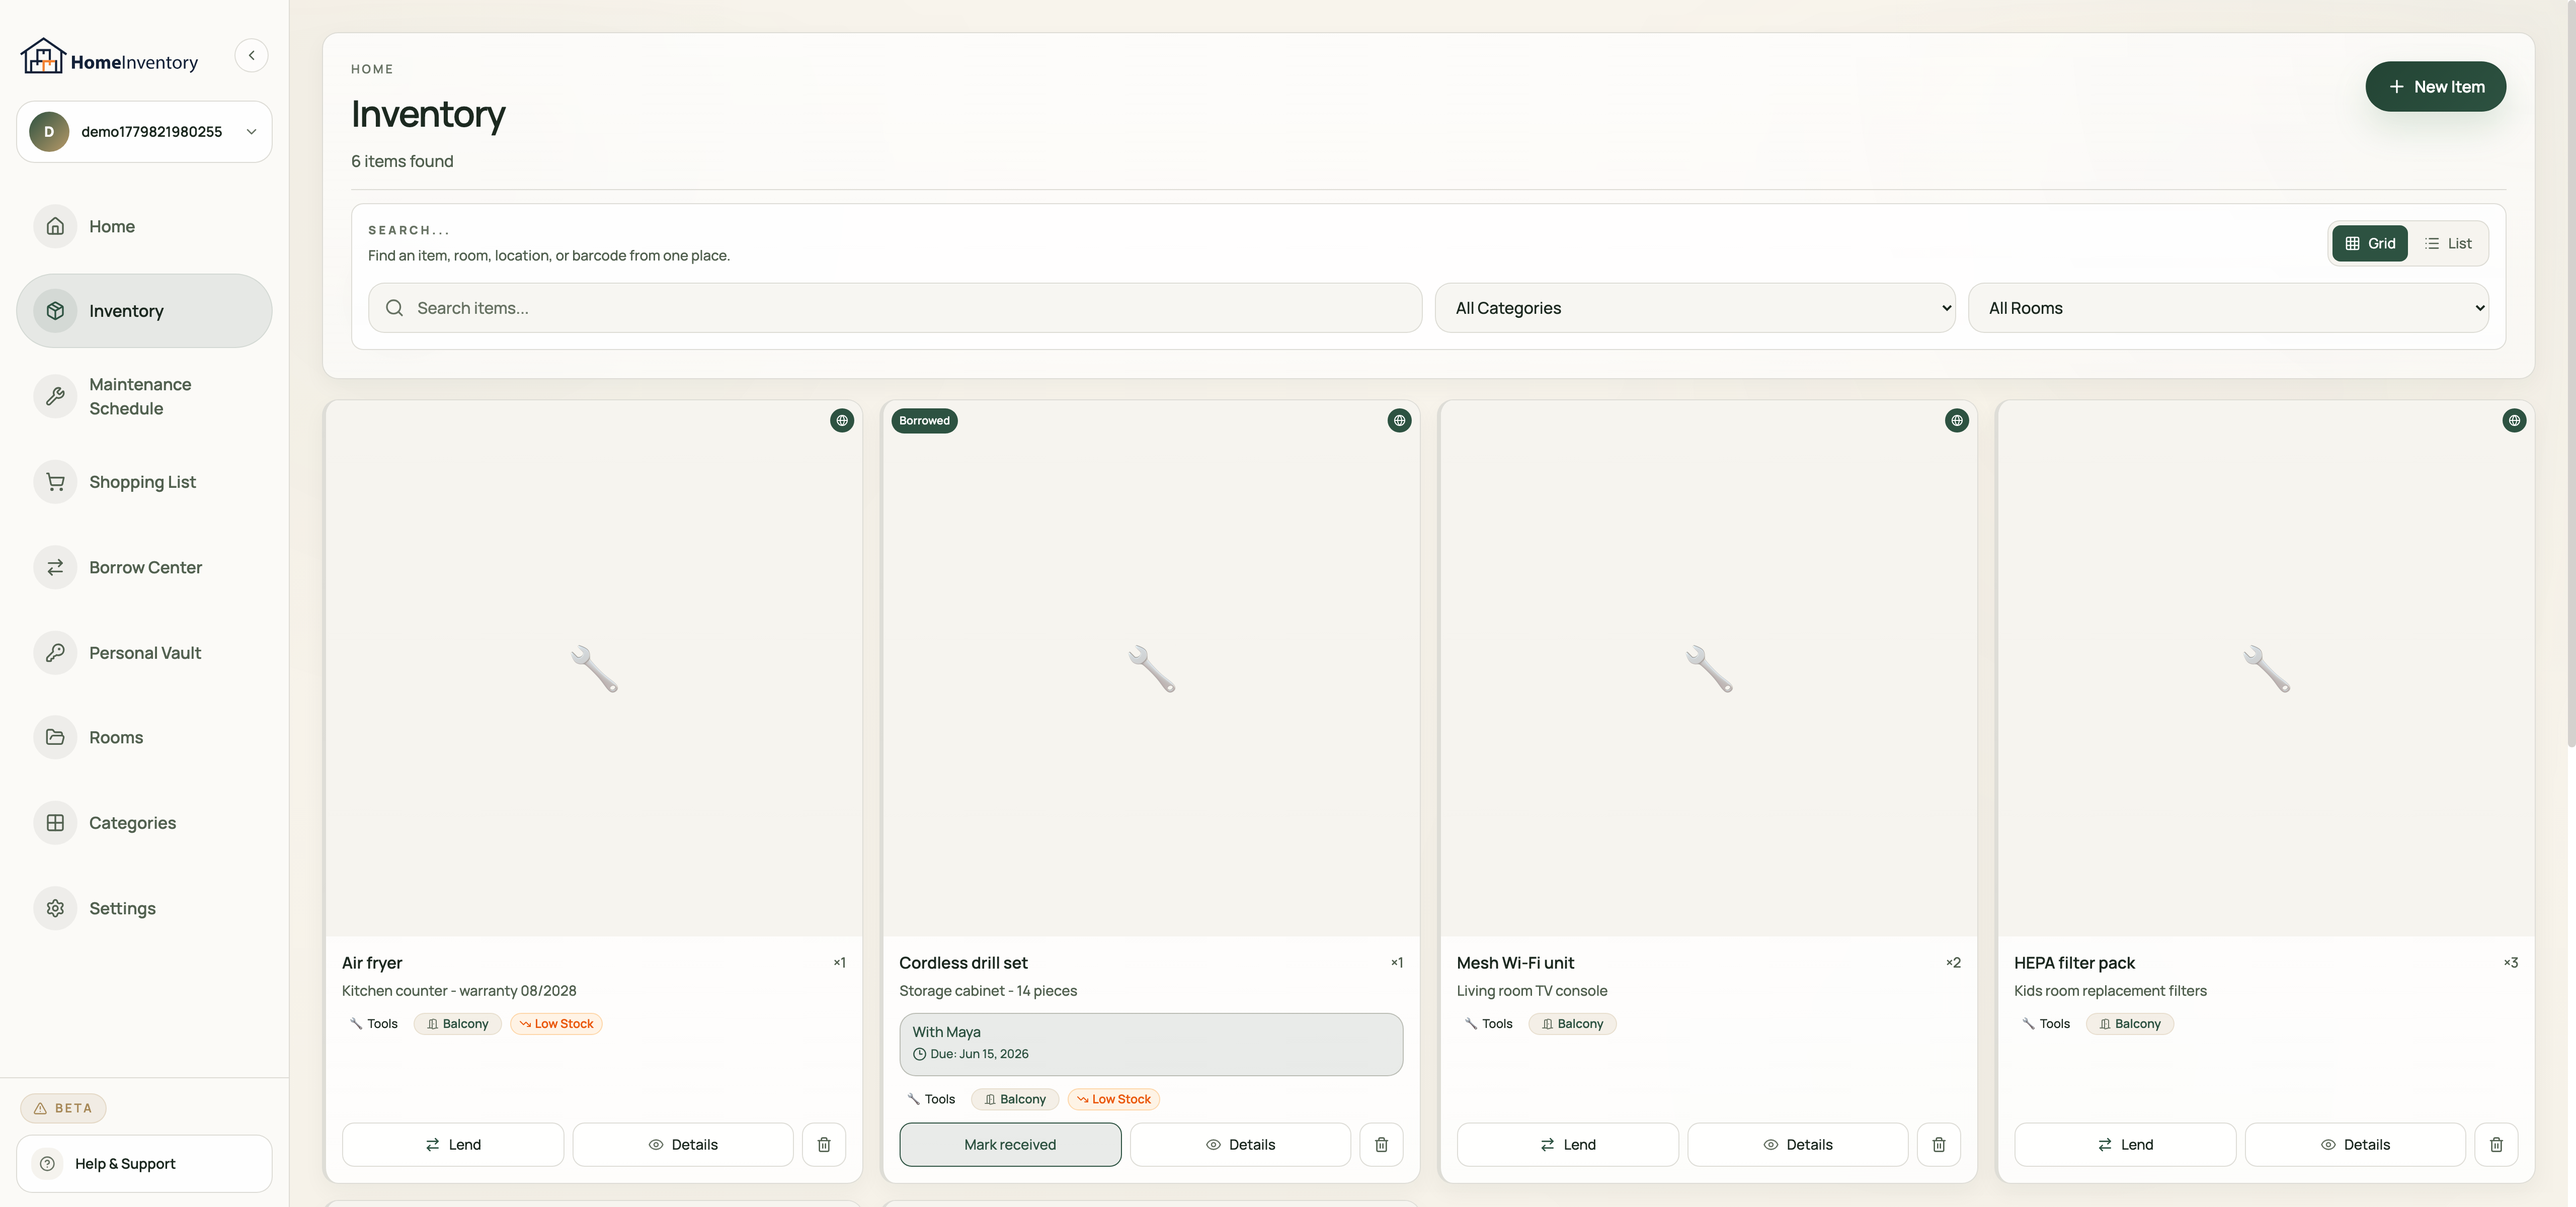
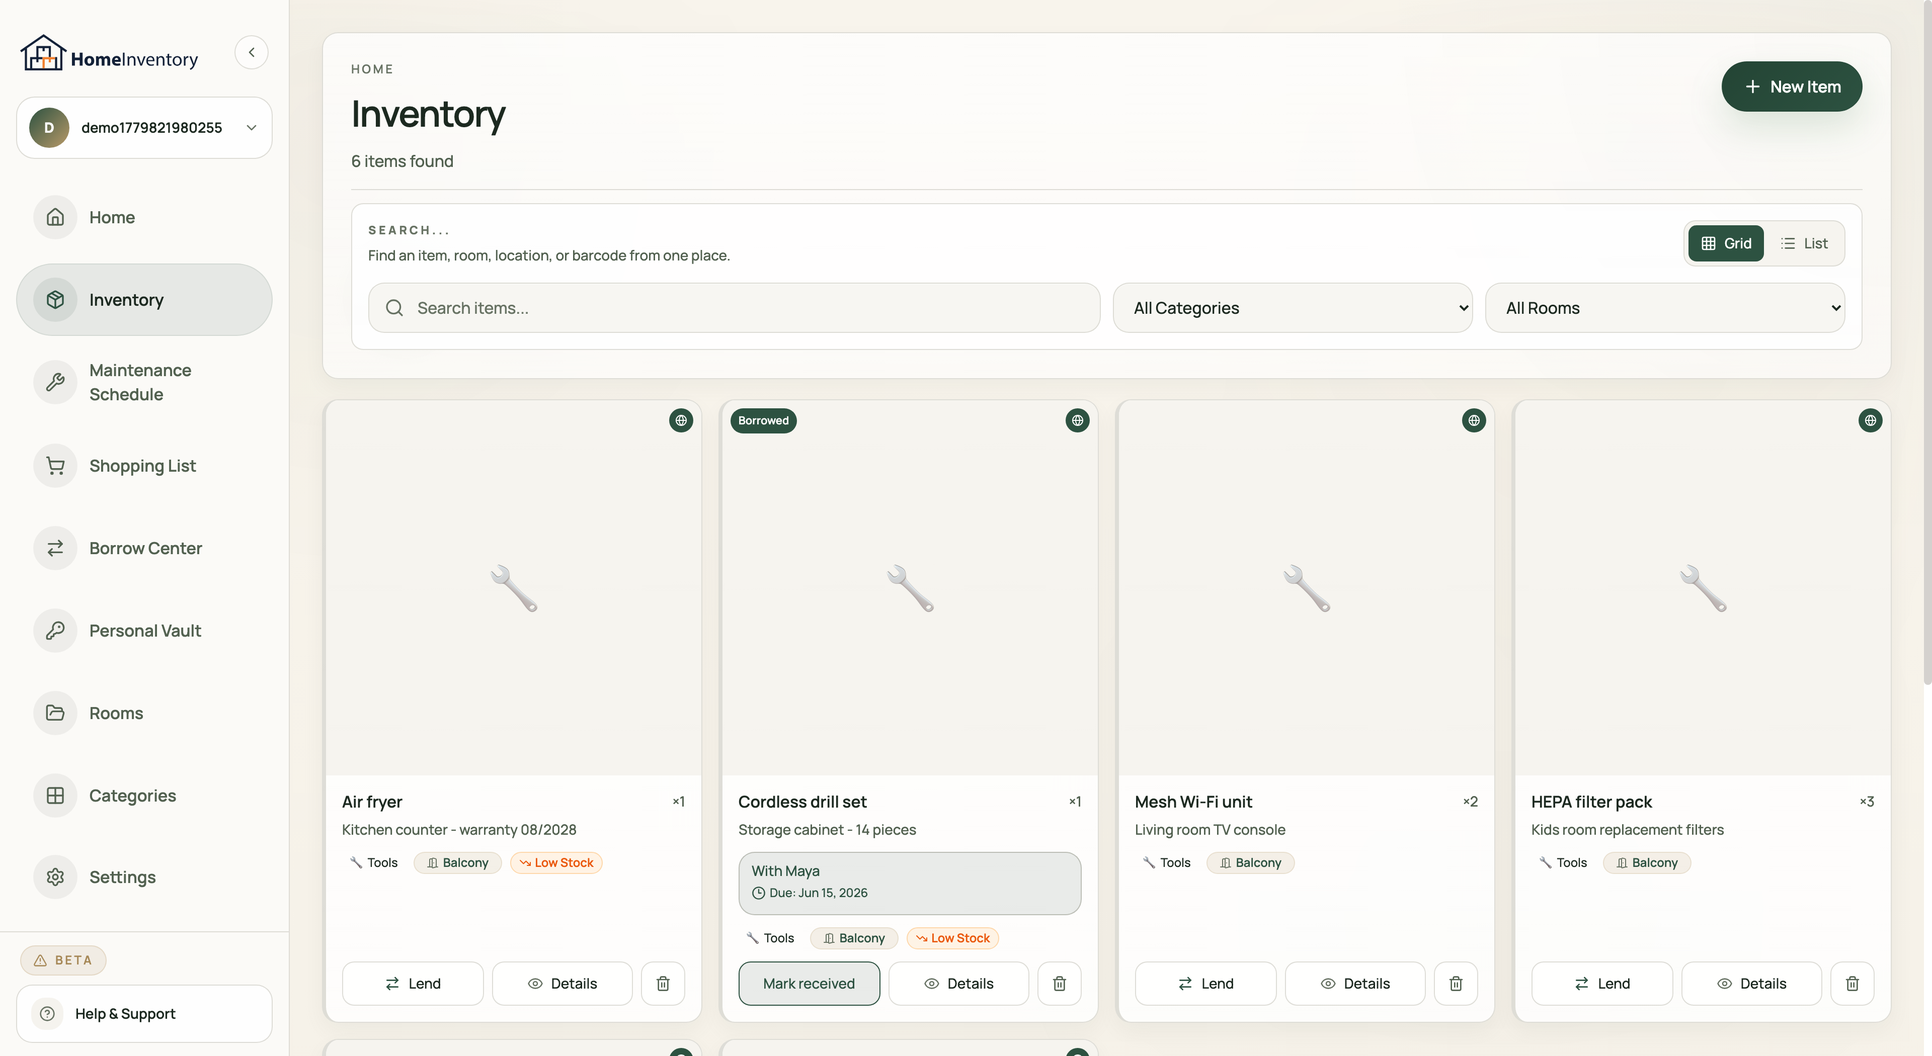
docs: normalize v2.1.1 screenshots

diff --git a/README.ar.md b/README.ar.md
@@ -50,7 +50,7 @@
 ## المعاينة
 
 <p align="center">
-  <img src="docs/assets/screenshot-landing.png" alt="معاينة صفحة HomeInventory الرئيسية" width="96%" />
+  <img src="docs/assets/screenshot-landing.png" alt="معاينة صفحة HomeInventory الرئيسية" width="82%" />
 </p>
 
 <details>
@@ -59,16 +59,16 @@
 <br/>
 
 <p align="center">
-  <img src="docs/assets/screenshot-inventory.png" alt="شاشة الجرد" width="96%" />
+  <img src="docs/assets/screenshot-inventory.png" alt="شاشة الجرد" width="82%" />
 </p>
 <p align="center">
-  <img src="docs/assets/screenshot-borrow.png" alt="شاشة Borrow Center" width="96%" />
+  <img src="docs/assets/screenshot-borrow.png" alt="شاشة Borrow Center" width="82%" />
 </p>
 <p align="center">
-  <img src="docs/assets/screenshot-vault.png" alt="شاشة Personal Vault" width="96%" />
+  <img src="docs/assets/screenshot-vault.png" alt="شاشة Personal Vault" width="82%" />
 </p>
 <p align="center">
-  <img src="docs/assets/screenshot-categories.png" alt="شاشة الفئات" width="96%" />
+  <img src="docs/assets/screenshot-categories.png" alt="شاشة الفئات" width="82%" />
 </p>
 
 </details>

diff --git a/README.es.md b/README.es.md
@@ -48,7 +48,7 @@
 ## Vista previa
 
 <p align="center">
-  <img src="docs/assets/screenshot-landing.png" alt="Vista previa de la landing de HomeInventory" width="96%" />
+  <img src="docs/assets/screenshot-landing.png" alt="Vista previa de la landing de HomeInventory" width="82%" />
 </p>
 
 <details>
@@ -57,16 +57,16 @@
 <br/>
 
 <p align="center">
-  <img src="docs/assets/screenshot-inventory.png" alt="Pantalla de inventario" width="96%" />
+  <img src="docs/assets/screenshot-inventory.png" alt="Pantalla de inventario" width="82%" />
 </p>
 <p align="center">
-  <img src="docs/assets/screenshot-borrow.png" alt="Pantalla de Borrow Center" width="96%" />
+  <img src="docs/assets/screenshot-borrow.png" alt="Pantalla de Borrow Center" width="82%" />
 </p>
 <p align="center">
-  <img src="docs/assets/screenshot-vault.png" alt="Pantalla de Personal Vault" width="96%" />
+  <img src="docs/assets/screenshot-vault.png" alt="Pantalla de Personal Vault" width="82%" />
 </p>
 <p align="center">
-  <img src="docs/assets/screenshot-categories.png" alt="Pantalla de categorías" width="96%" />
+  <img src="docs/assets/screenshot-categories.png" alt="Pantalla de categorías" width="82%" />
 </p>
 
 </details>

diff --git a/README.tr.md b/README.tr.md
@@ -48,7 +48,7 @@
 ## Önizleme
 
 <p align="center">
-  <img src="docs/assets/screenshot-landing.png" alt="HomeInventory açılış ekranı önizlemesi" width="96%" />
+  <img src="docs/assets/screenshot-landing.png" alt="HomeInventory açılış ekranı önizlemesi" width="82%" />
 </p>
 
 <details>
@@ -57,16 +57,16 @@
 <br/>
 
 <p align="center">
-  <img src="docs/assets/screenshot-inventory.png" alt="Envanter ekranı" width="96%" />
+  <img src="docs/assets/screenshot-inventory.png" alt="Envanter ekranı" width="82%" />
 </p>
 <p align="center">
-  <img src="docs/assets/screenshot-borrow.png" alt="Borrow Center ekranı" width="96%" />
+  <img src="docs/assets/screenshot-borrow.png" alt="Borrow Center ekranı" width="82%" />
 </p>
 <p align="center">
-  <img src="docs/assets/screenshot-vault.png" alt="Personal Vault ekranı" width="96%" />
+  <img src="docs/assets/screenshot-vault.png" alt="Personal Vault ekranı" width="82%" />
 </p>
 <p align="center">
-  <img src="docs/assets/screenshot-categories.png" alt="Kategoriler ekranı" width="96%" />
+  <img src="docs/assets/screenshot-categories.png" alt="Kategoriler ekranı" width="82%" />
 </p>
 
 </details>

diff --git a/README.de.md b/README.de.md
@@ -48,7 +48,7 @@
 ## Vorschau
 
 <p align="center">
-  <img src="docs/assets/screenshot-landing.png" alt="HomeInventory Landingpage-Vorschau" width="96%" />
+  <img src="docs/assets/screenshot-landing.png" alt="HomeInventory Landingpage-Vorschau" width="82%" />
 </p>
 
 <details>
@@ -57,16 +57,16 @@
 <br/>
 
 <p align="center">
-  <img src="docs/assets/screenshot-inventory.png" alt="Inventaransicht" width="96%" />
+  <img src="docs/assets/screenshot-inventory.png" alt="Inventaransicht" width="82%" />
 </p>
 <p align="center">
-  <img src="docs/assets/screenshot-borrow.png" alt="Borrow Center Ansicht" width="96%" />
+  <img src="docs/assets/screenshot-borrow.png" alt="Borrow Center Ansicht" width="82%" />
 </p>
 <p align="center">
-  <img src="docs/assets/screenshot-vault.png" alt="Personal Vault Ansicht" width="96%" />
+  <img src="docs/assets/screenshot-vault.png" alt="Personal Vault Ansicht" width="82%" />
 </p>
 <p align="center">
-  <img src="docs/assets/screenshot-categories.png" alt="Kategorienansicht" width="96%" />
+  <img src="docs/assets/screenshot-categories.png" alt="Kategorienansicht" width="82%" />
 </p>
 
 </details>

diff --git a/README.md b/README.md
@@ -48,7 +48,7 @@
 ## Preview
 
 <p align="center">
-  <img src="docs/assets/screenshot-landing.png" alt="HomeInventory landing page preview" width="96%" />
+  <img src="docs/assets/screenshot-landing.png" alt="HomeInventory landing page preview" width="82%" />
 </p>
 
 <details>
@@ -57,16 +57,16 @@
 <br/>
 
 <p align="center">
-  <img src="docs/assets/screenshot-inventory.png" alt="Inventory screen" width="96%" />
+  <img src="docs/assets/screenshot-inventory.png" alt="Inventory screen" width="82%" />
 </p>
 <p align="center">
-  <img src="docs/assets/screenshot-borrow.png" alt="Borrow Center screen" width="96%" />
+  <img src="docs/assets/screenshot-borrow.png" alt="Borrow Center screen" width="82%" />
 </p>
 <p align="center">
-  <img src="docs/assets/screenshot-vault.png" alt="Personal Vault screen" width="96%" />
+  <img src="docs/assets/screenshot-vault.png" alt="Personal Vault screen" width="82%" />
 </p>
 <p align="center">
-  <img src="docs/assets/screenshot-categories.png" alt="Categories screen" width="96%" />
+  <img src="docs/assets/screenshot-categories.png" alt="Categories screen" width="82%" />
 </p>
 
 </details>
